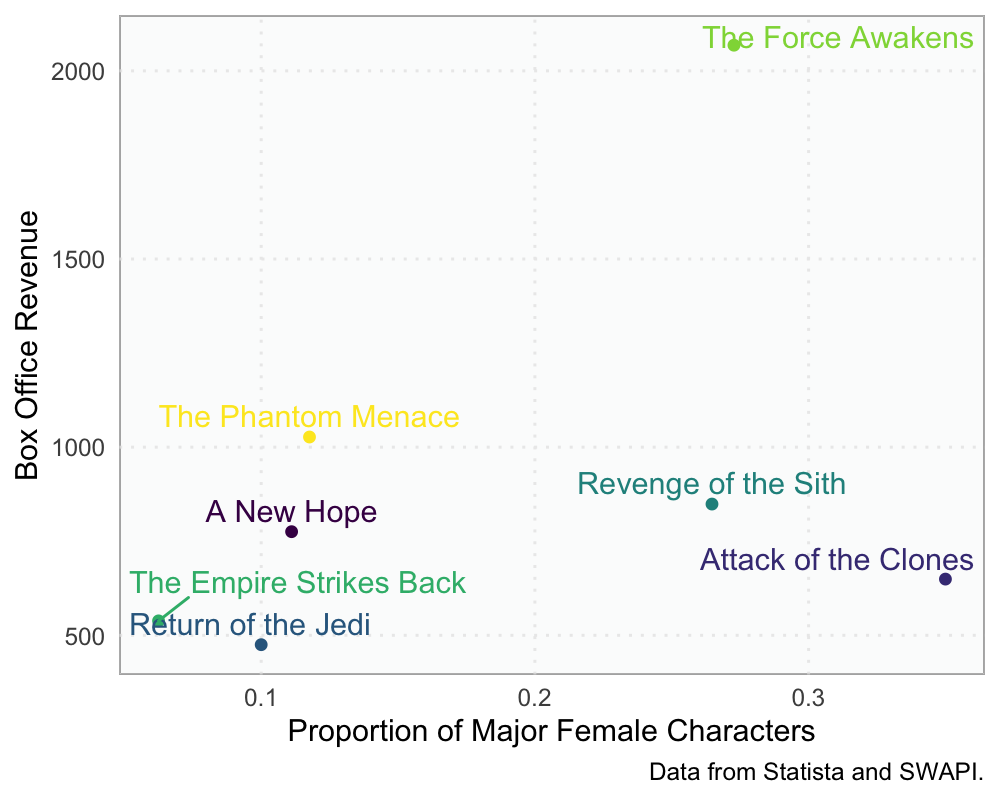
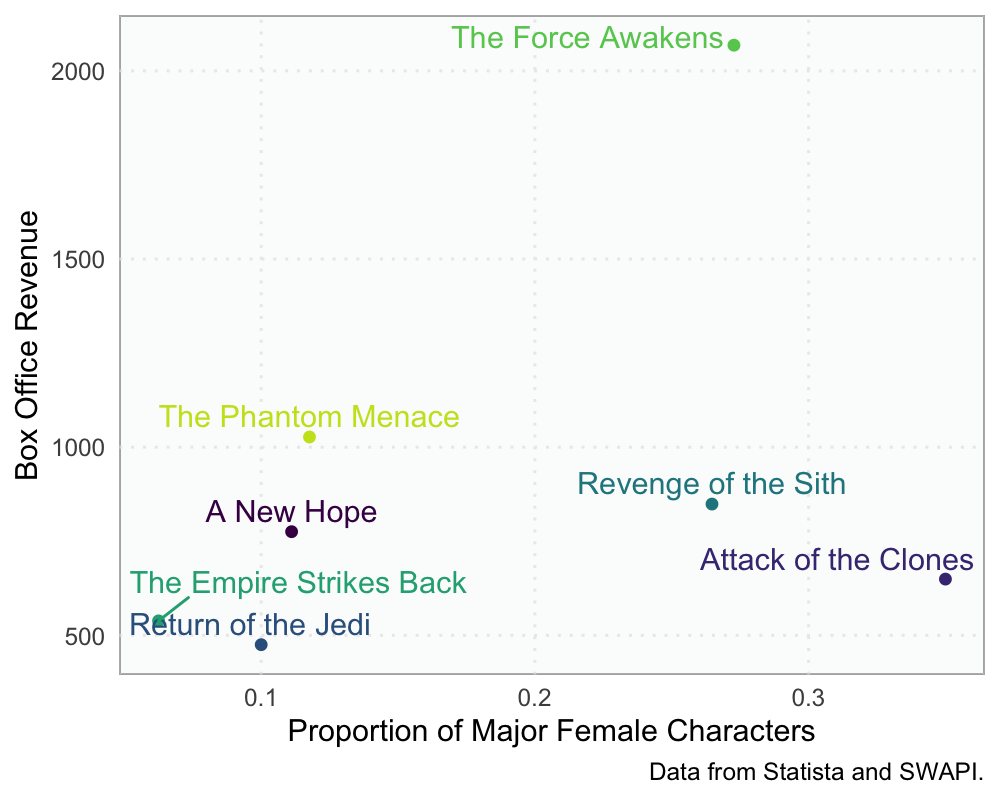
updated post

Changed region(s): [[0.434, 0.0312, 0.992, 0.0625], [0.155, 0.5, 0.465, 0.5625], [0.124, 0.7188, 0.465, 0.75]]

diff --git a/assets/RMD/2019-11-15-workflow_dtplyr_tidyfast.md b/assets/RMD/2019-11-15-workflow_dtplyr_tidyfast.md
@@ -308,7 +308,7 @@ already be large data in the list-columns.
     films_unnest
 
     ##                       films num_worlds revenue        gender     N
-    ##                      <char>     <char>  <char>        <char> <int>
+    ##                      <char>      <num>   <num>        <char> <int>
     ##  1:              A New Hope         10   775.4          <NA>     3
     ##  2:              A New Hope         10   775.4        female     2
     ##  3:              A New Hope         10   775.4 hermaphrodite     1
@@ -321,10 +321,10 @@ already be large data in the list-columns.
     ## 10:      Return of the Jedi         15   475.1        female     2
     ## 11:      Return of the Jedi         15   475.1 hermaphrodite     1
     ## 12:      Return of the Jedi         15   475.1          male    15
-    ## 13:      The Phantom Menace         23    1027          <NA>     2
-    ## 14:      The Phantom Menace         23    1027        female     4
-    ## 15:      The Phantom Menace         23    1027 hermaphrodite     1
-    ## 16:      The Phantom Menace         23    1027          male    27
+    ## 13:      The Phantom Menace         23  1027.0          <NA>     2
+    ## 14:      The Phantom Menace         23  1027.0        female     4
+    ## 15:      The Phantom Menace         23  1027.0 hermaphrodite     1
+    ## 16:      The Phantom Menace         23  1027.0          male    27
     ## 17:    Attack of the Clones         25   649.4          <NA>     2
     ## 18:    Attack of the Clones         25   649.4        female    14
     ## 19:    Attack of the Clones         25   649.4          male    24
@@ -350,14 +350,14 @@ represented.
     prop_female[]
 
     ##                      films num_worlds revenue gender     N sum_characters prop_female
-    ##                     <char>     <char>  <char> <char> <int>          <int>       <num>
+    ##                     <char>      <num>   <num> <char> <int>          <int>       <num>
     ## 1:              A New Hope         10   775.4 female     2             18   0.1111111
     ## 2:    Attack of the Clones         25   649.4 female    14             40   0.3500000
     ## 3:      Return of the Jedi         15   475.1 female     2             20   0.1000000
     ## 4:     Revenge of the Sith         23   848.8 female     9             34   0.2647059
     ## 5: The Empire Strikes Back         11   538.4 female     1             16   0.0625000
     ## 6:       The Force Awakens          7  2068.2 female     3             11   0.2727273
-    ## 7:      The Phantom Menace         23    1027 female     4             34   0.1176471
+    ## 7:      The Phantom Menace         23  1027.0 female     4             34   0.1176471
 
 With this info, we visualize how these relate.
 
@@ -382,7 +382,7 @@ With this info, we visualize how these relate.
       labs(x = "Proportion of Major Female Characters",
            y = "Box Office Revenue",
            caption = "Data from Statista and SWAPI.") +
-      scale_color_viridis_d()
+      scale_color_viridis_d(end = .92)
 
     ## Warning: You are using a dplyr method on a raw data.table, which will call the data frame implementation, and is likely to be inefficient.
     ## * 
@@ -455,7 +455,7 @@ helpful.
     ##  stringi       1.4.3      2019-03-12 [1] CRAN (R 3.6.0)                        
     ##  stringr       1.4.0      2019-02-10 [1] CRAN (R 3.6.0)                        
     ##  tibble        2.1.3      2019-06-06 [1] CRAN (R 3.6.0)                        
-    ##  tidyfast    * 0.2.0      2019-12-04 [1] Github (tysonstanley/tidyfast@a4b6cc2)
+    ##  tidyfast    * 0.2.0      2019-12-04 [1] Github (tysonstanley/tidyfast@fed2a3a)
     ##  tidyselect    0.2.5      2018-10-11 [1] CRAN (R 3.6.0)                        
     ##  utf8          1.1.4      2018-05-24 [1] CRAN (R 3.6.0)                        
     ##  vctrs         0.2.0      2019-07-05 [1] CRAN (R 3.6.0)                        

diff --git a/_posts/2019-12-03-workflow_dtplyr_tidyfast.md b/_posts/2019-12-03-workflow_dtplyr_tidyfast.md
@@ -345,7 +345,7 @@ films_unnest
 {% endhighlight %}
 
     ##                       films num_worlds revenue        gender     N
-    ##                      <char>     <char>  <char>        <char> <int>
+    ##                      <char>      <num>   <num>        <char> <int>
     ##  1:              A New Hope         10   775.4          <NA>     3
     ##  2:              A New Hope         10   775.4        female     2
     ##  3:              A New Hope         10   775.4 hermaphrodite     1
@@ -506,4 +506,4 @@ sessioninfo::session_info()
     ## 
     ## [1] /Library/Frameworks/R.framework/Versions/3.6/Resources/library
 
-[^note]: Note that `dt_unnest()` has changed the columns that weren't unnested to `<char>` type. This is a bug and is being fixed.
+[^note]: Note that this post has been updated to show that `dt_unnest()` no longer changes the variable types to characters. This bug has been fixed.
